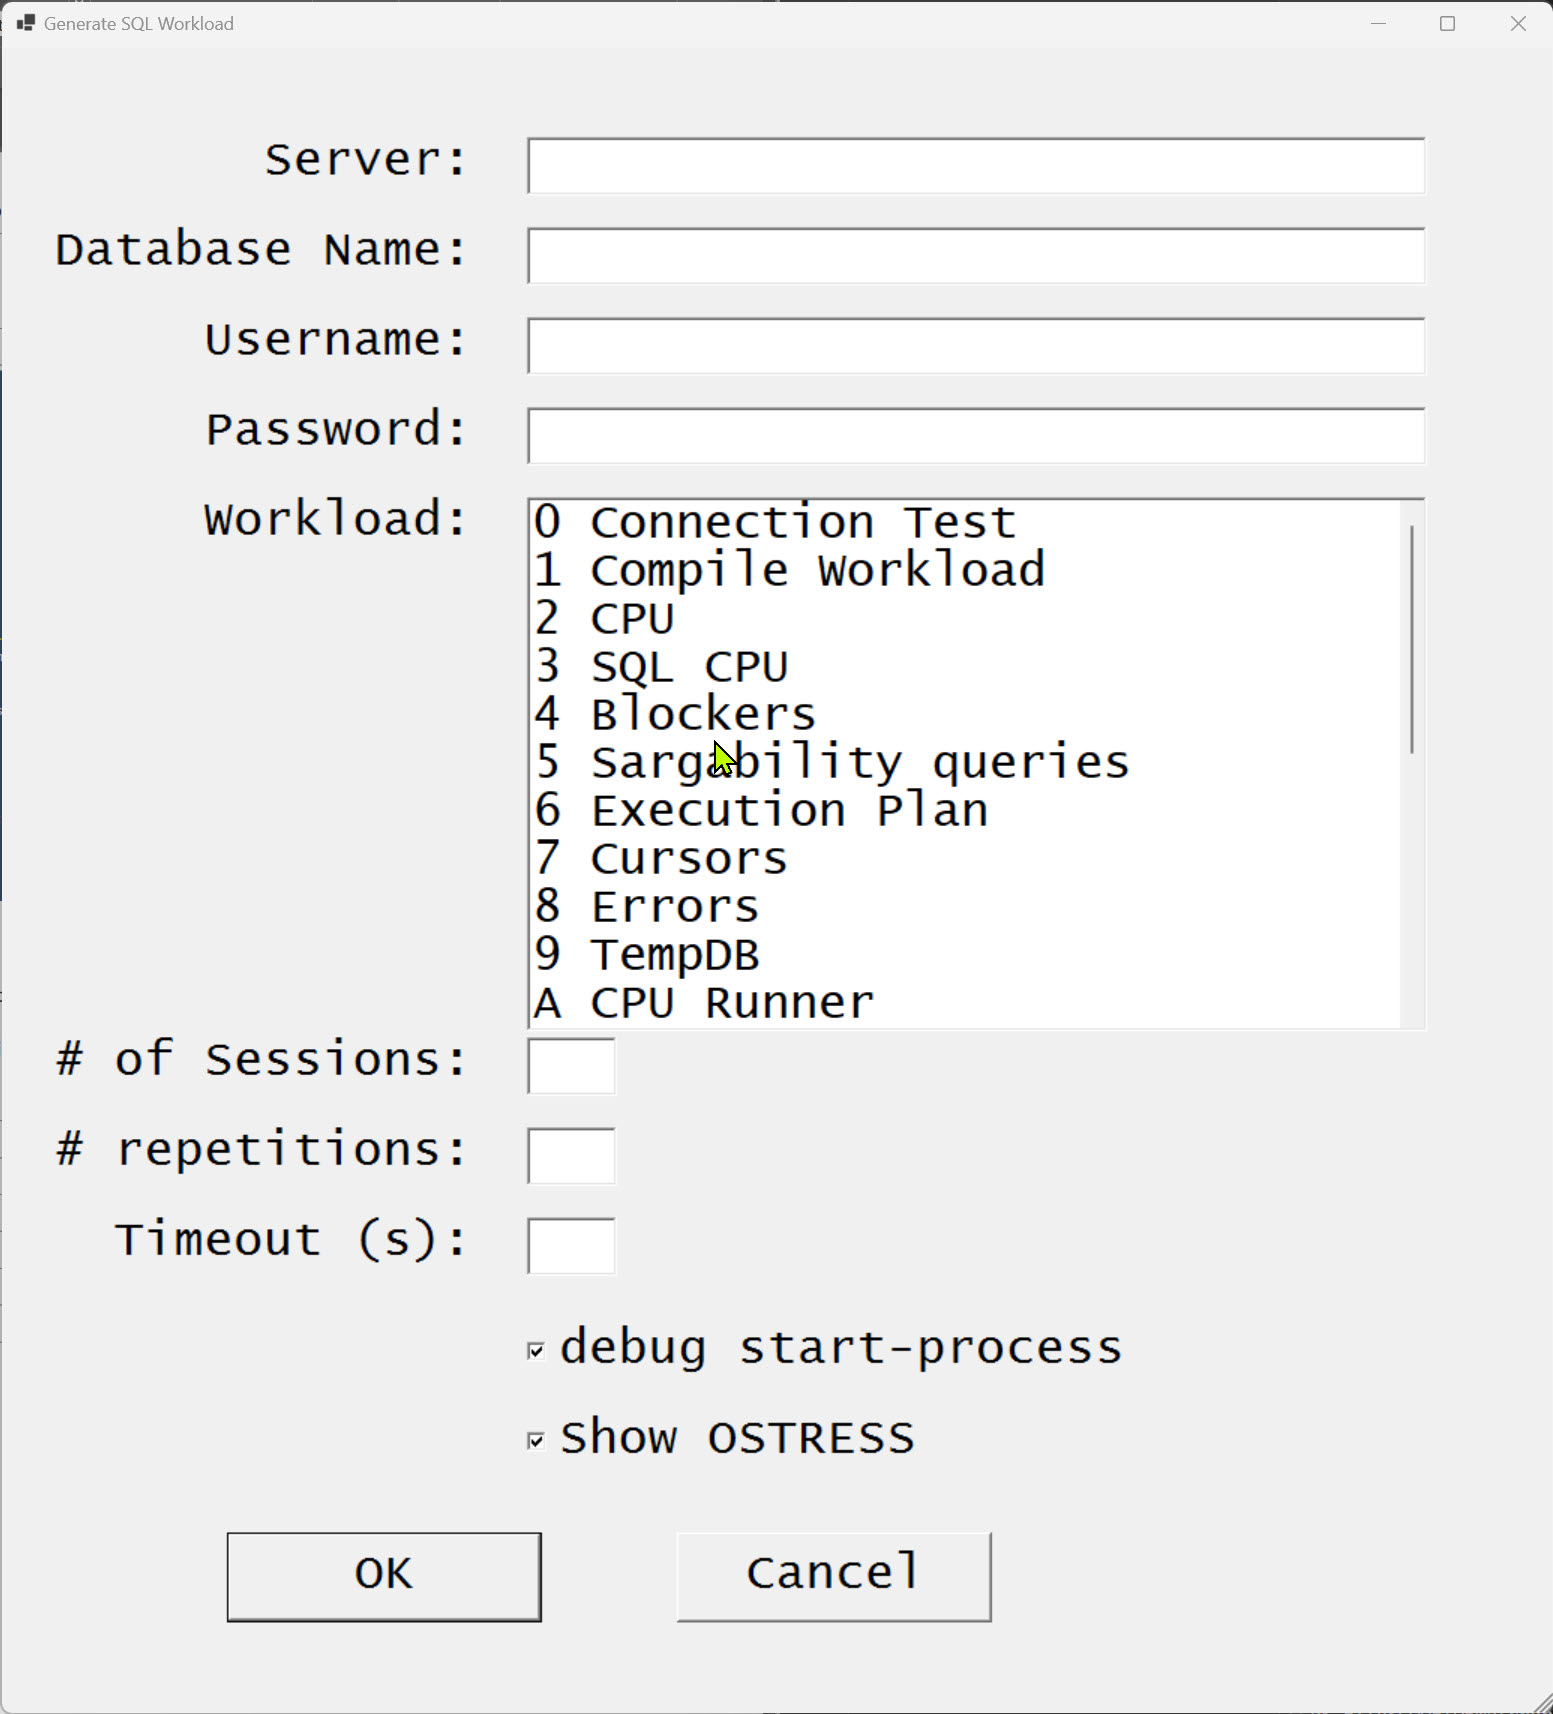
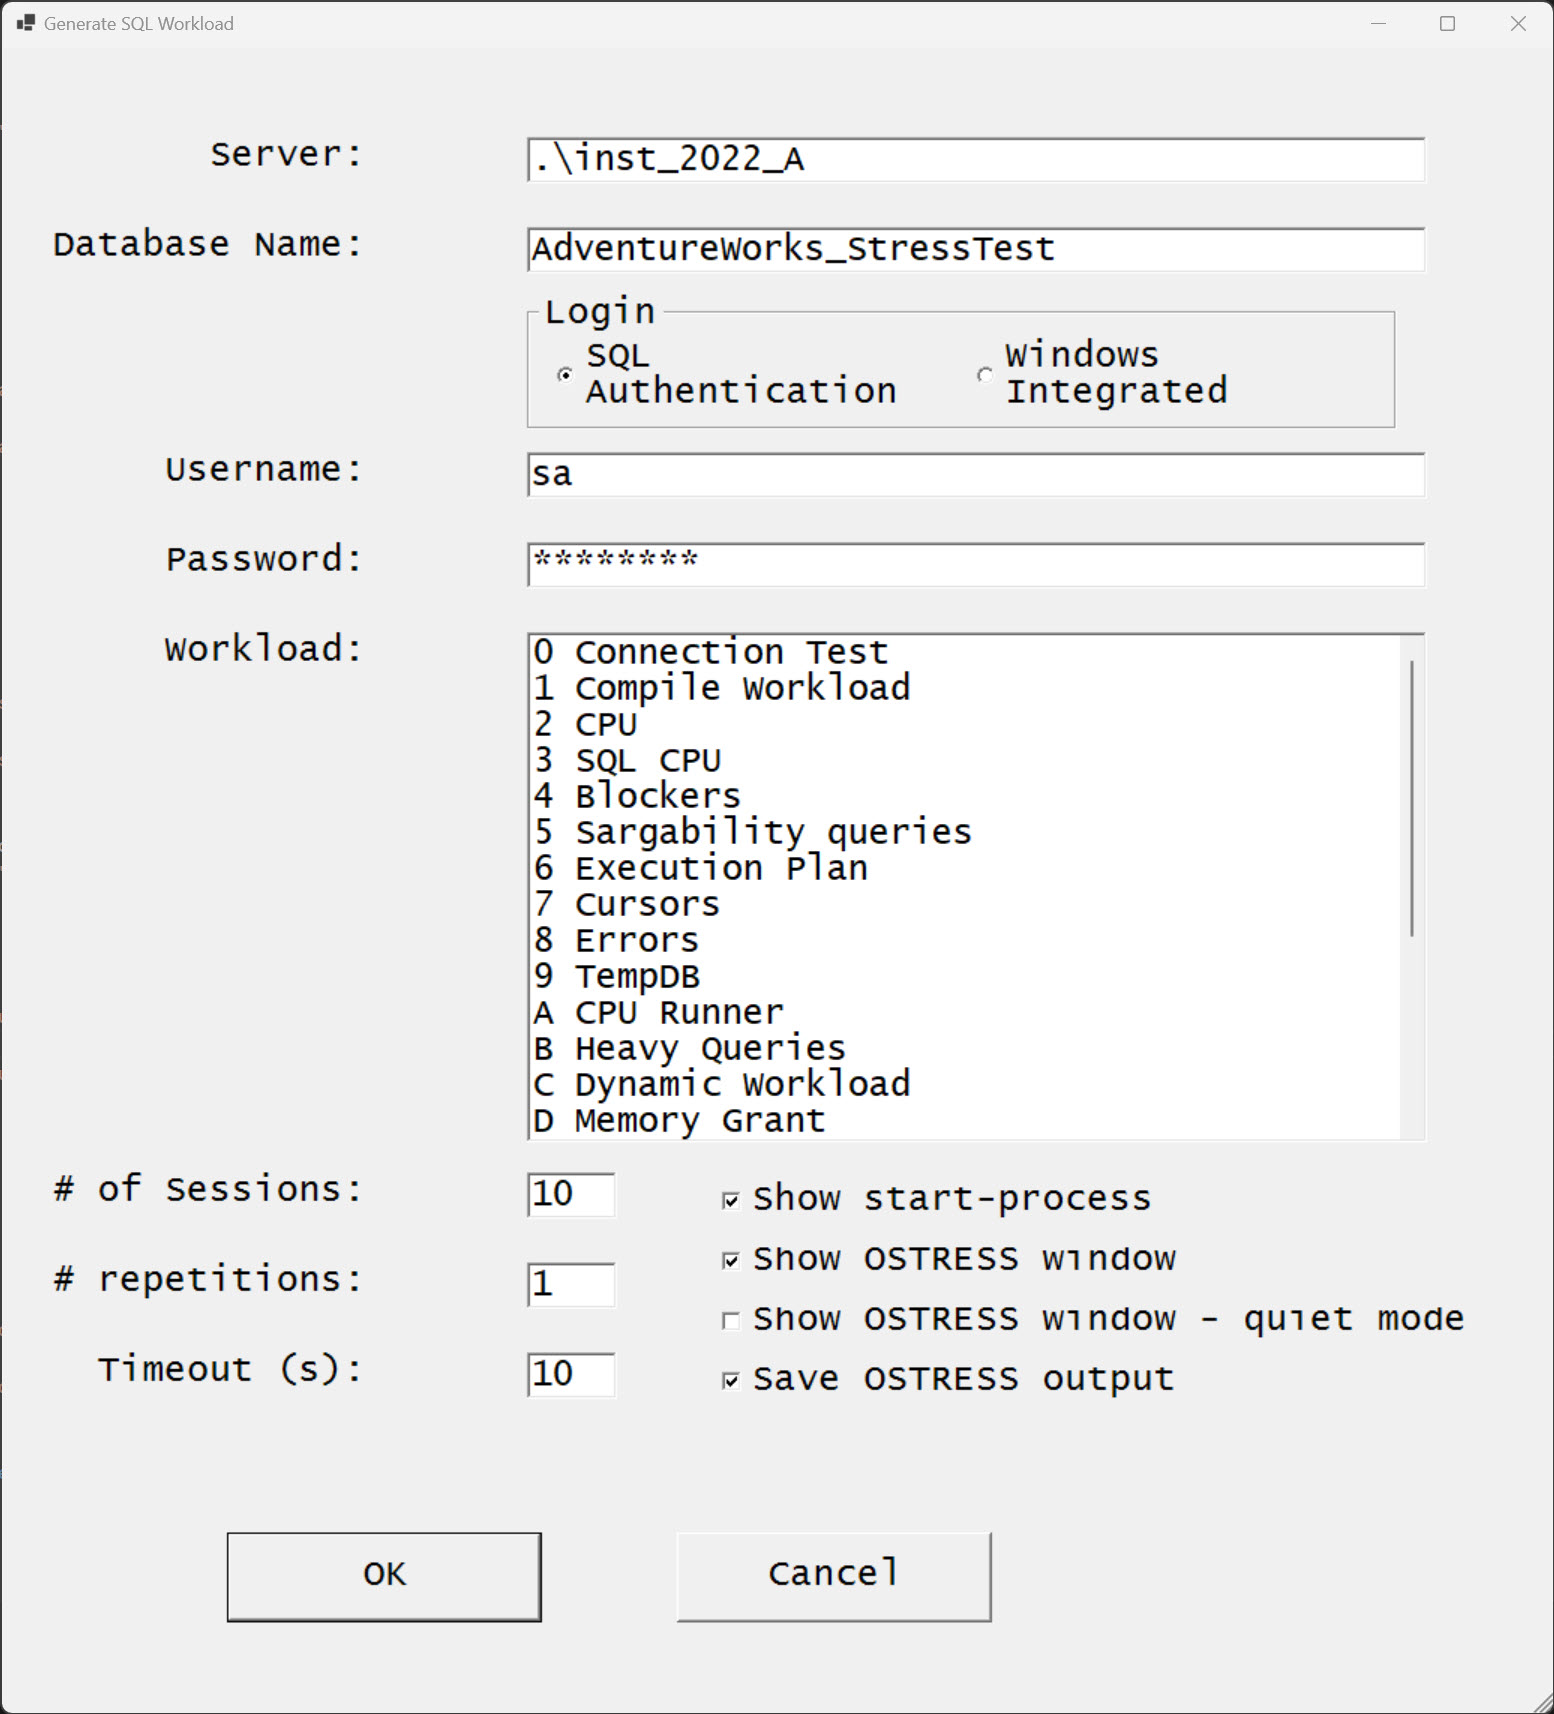
updated images and readme.  Enlarged table setup

diff --git a/README.md b/README.md
@@ -71,7 +71,14 @@ For this simmulation, we will validate the tool can connect to that instance, th
 
 ![Alt text](IMG/GUI_img02.jpg)
 
-We left the 2 checkboxes checked, which will allow us the see execution details in the next images
+3 checkboxes are checked, which will allow us the see execution details in the next images
+
+The checkbox not checked (Show the OSTRESS window - quiet mode) when checked:
+
+* avoids screen refresh on client machine 
+
+* does not save the output from OSTRESS, which will decrease impact on client machine storage and network
+
 
 * this image shows the output on PowerShell Console
 
